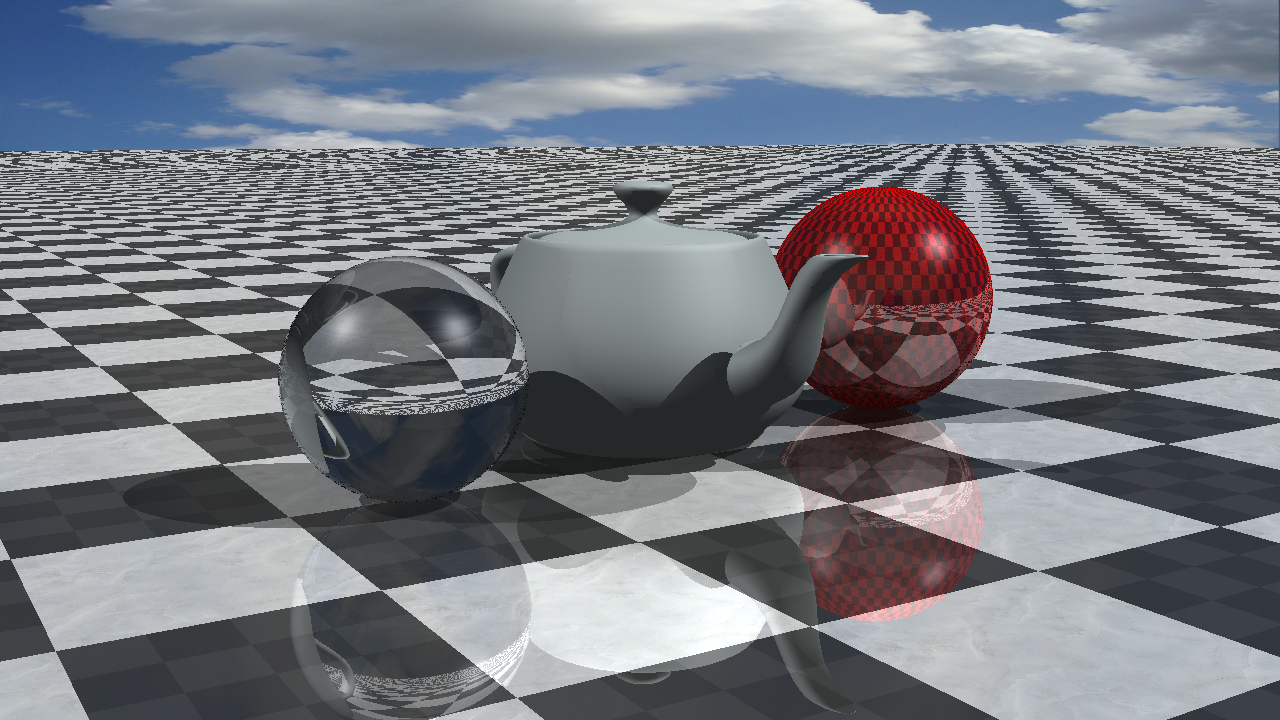
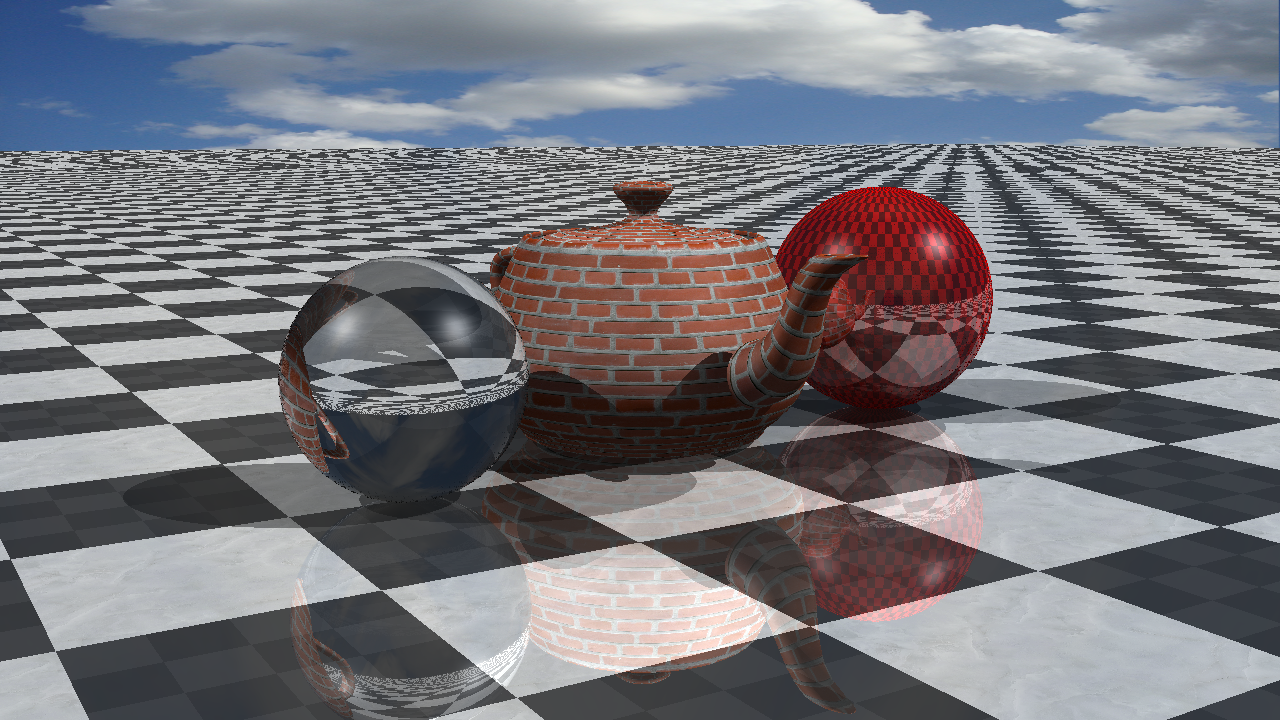
Finihsed texture mapping for triangle meshes

diff --git a/src/TriObj.cpp b/src/TriObj.cpp
@@ -124,13 +124,14 @@ bool TriObj::IntersectRay(const Ray& localRay, HitInfo& hitInfo, int hitSide) co
     if (!hit) return false;
     
     const TriFace& normFace{ fn[closestFaceID] };
+    const TriFace& texFace{ ft[closestFaceID] };
 
     hitInfo.z = closestT;
     hitInfo.p = closestX;
     hitInfo.front = closestDet > 0.0f;
-    //hitInfo.uvw = Vec3f{ closestU, closestV, 1.0f };
 
     hitInfo.N = ((1.0f - closestU - closestV) * vn[normFace.v[0]] + closestU * vn[normFace.v[1]] + closestV * vn[normFace.v[2]]).GetNormalized();
+    hitInfo.uvw = (1.0f - closestU - closestV) * vt[texFace.v[0]] + closestU * vt[texFace.v[1]] + closestV * vt[texFace.v[2]];
 
     return true;
 } 
